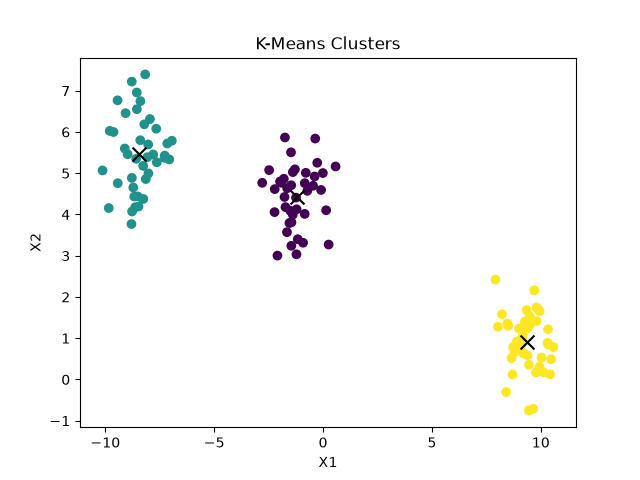
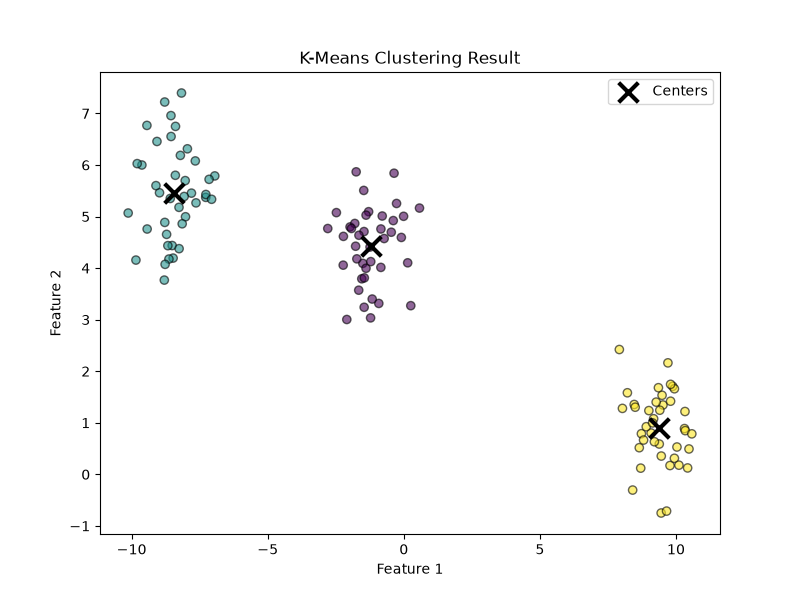
fixed project_02.py

diff --git a/assignments_02/project_02.py b/assignments_02/project_02.py
@@ -11,39 +11,37 @@ import matplotlib.pyplot as plt
 from sklearn.model_selection import train_test_split
 from sklearn.linear_model import LinearRegression
 
-# Ensure outputs directory exists
-os.makedirs("outputs", exist_ok=True)
-
-
 # --- Task 1: Load and Explore ---
 
-# 1. Load the dataset with the correct separator
-df = pd.read_csv("student_performance_math.csv", sep=";")
+# Observation: The raw CSV file uses semicolons (';') as delimiters 
+# rather than standard commas, so the sep=';' parameter is required.
+
+# 1. Load the dataset
+df = pd.read_csv('assignments_02/student_performance_math.csv', sep=';')
 
 print("\n===== Task 1: Load and Explore  =====")
-
-# 2. Print the basic dataset details
-print("--- Dataset Shape ---")
-print(df.shape)
-
-print("\n--- First 5 Rows ---")
-print(df.head(5))
-
-print("\n--- Column Data Types ---")
+# 2. Explore the dataset structure
+print("Dataset Shape:", df.shape)
+print("\nFirst Five Rows:")
+print(df.head())
+print("\nData Types:")
 print(df.dtypes)
 
-# 3. Create the histogram plot
-plt.figure(figsize=(8, 6))
-plt.hist(df["G3"], bins=21, range=(0, 20), color="skyblue", edgecolor="black")
+# 3. Create the outputs directory if it doesn't exist
+os.makedirs('assignments_02/outputs', exist_ok=True)
 
-# 4. Add details and labels to the plot
+# 4. Plot the histogram of G3 (including the zeros)
+plt.figure(figsize=(8, 5))
+plt.hist(df['G3'], bins=21, range=(0, 20), edgecolor='black', color='skyblue')
+
+# 5. Customize and save the plot
 plt.title("Distribution of Final Math Grades")
 plt.xlabel("Final Grade (G3)")
 plt.ylabel("Number of Students")
-plt.grid(axis="y", linestyle="--", alpha=0.5)
+plt.grid(axis='y', alpha=0.75)
 
-# 5. Save the plot to the outputs folder
-plt.savefig("outputs/g3_distribution.png")
+# Save the plot to the specified directory
+plt.savefig('assignments_02/outputs/g3_distribution.png', dpi=300)
 plt.close()
 
 print("\nHistogram successfully saved to outputs/g3_distribution.png")
@@ -132,7 +130,7 @@ plt.xticks(average_by_failure.index) # Show exact numbers on x-axis
 plt.grid(axis="y", linestyle="--", alpha=0.5)
 
 # Save the first plot
-plt.savefig("outputs/g3_by_failures_bar.png")
+plt.savefig("assignments_02/outputs/g3_by_failures_bar.png")
 plt.close()
 
 # Plot 1 Comment:
@@ -153,7 +151,7 @@ plt.ylabel("Final Grade (G3)")
 plt.grid(True, linestyle="--", alpha=0.5)
 
 # Save the second plot
-plt.savefig("outputs/g3_vs_absences_scatter.png")
+plt.savefig("assignments_02/outputs/g3_vs_absences_scatter.png")
 plt.close()
 
 # Plot 2 Comment:
@@ -276,7 +274,7 @@ plt.ylabel("Actual Final Grade (G3)")
 plt.legend()
 plt.grid(True, linestyle="--", alpha=0.5)
 
-plt.savefig("outputs/predicted_vs_actual.png")
+plt.savefig("assignments_02/outputs/predicted_vs_actual.png")
 plt.close()
 
 print("Plot successfully saved to outputs/predicted_vs_actual.png")